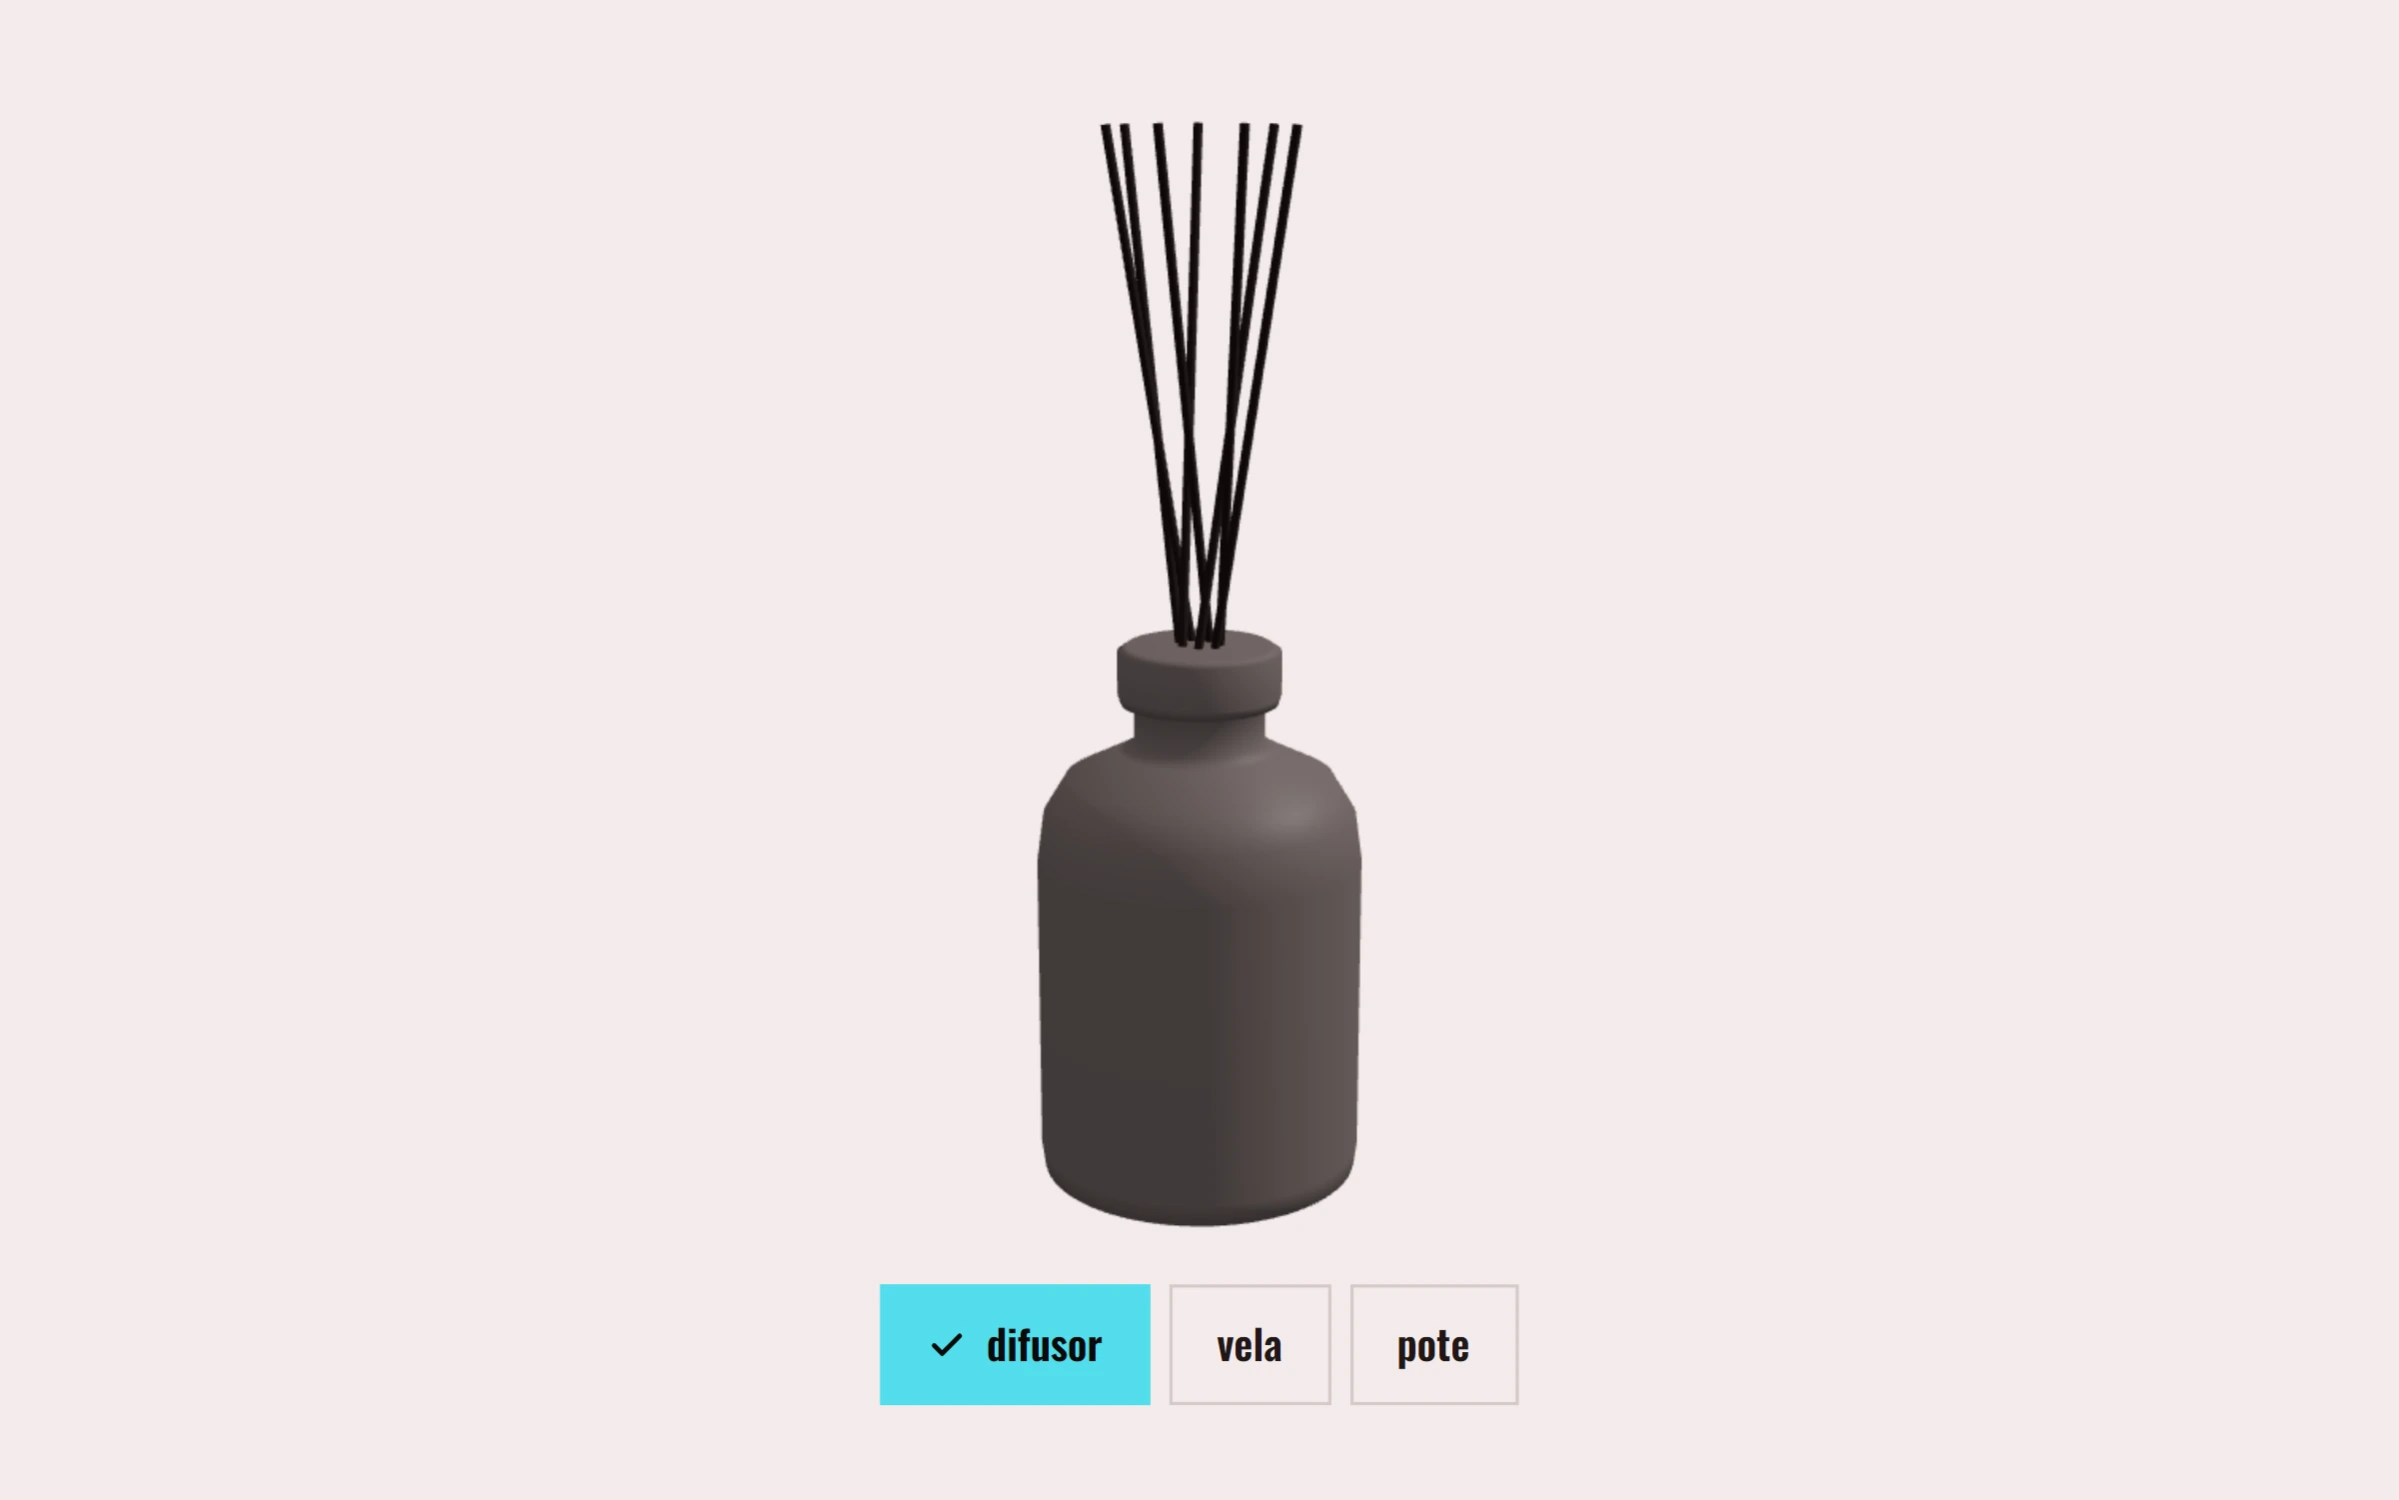
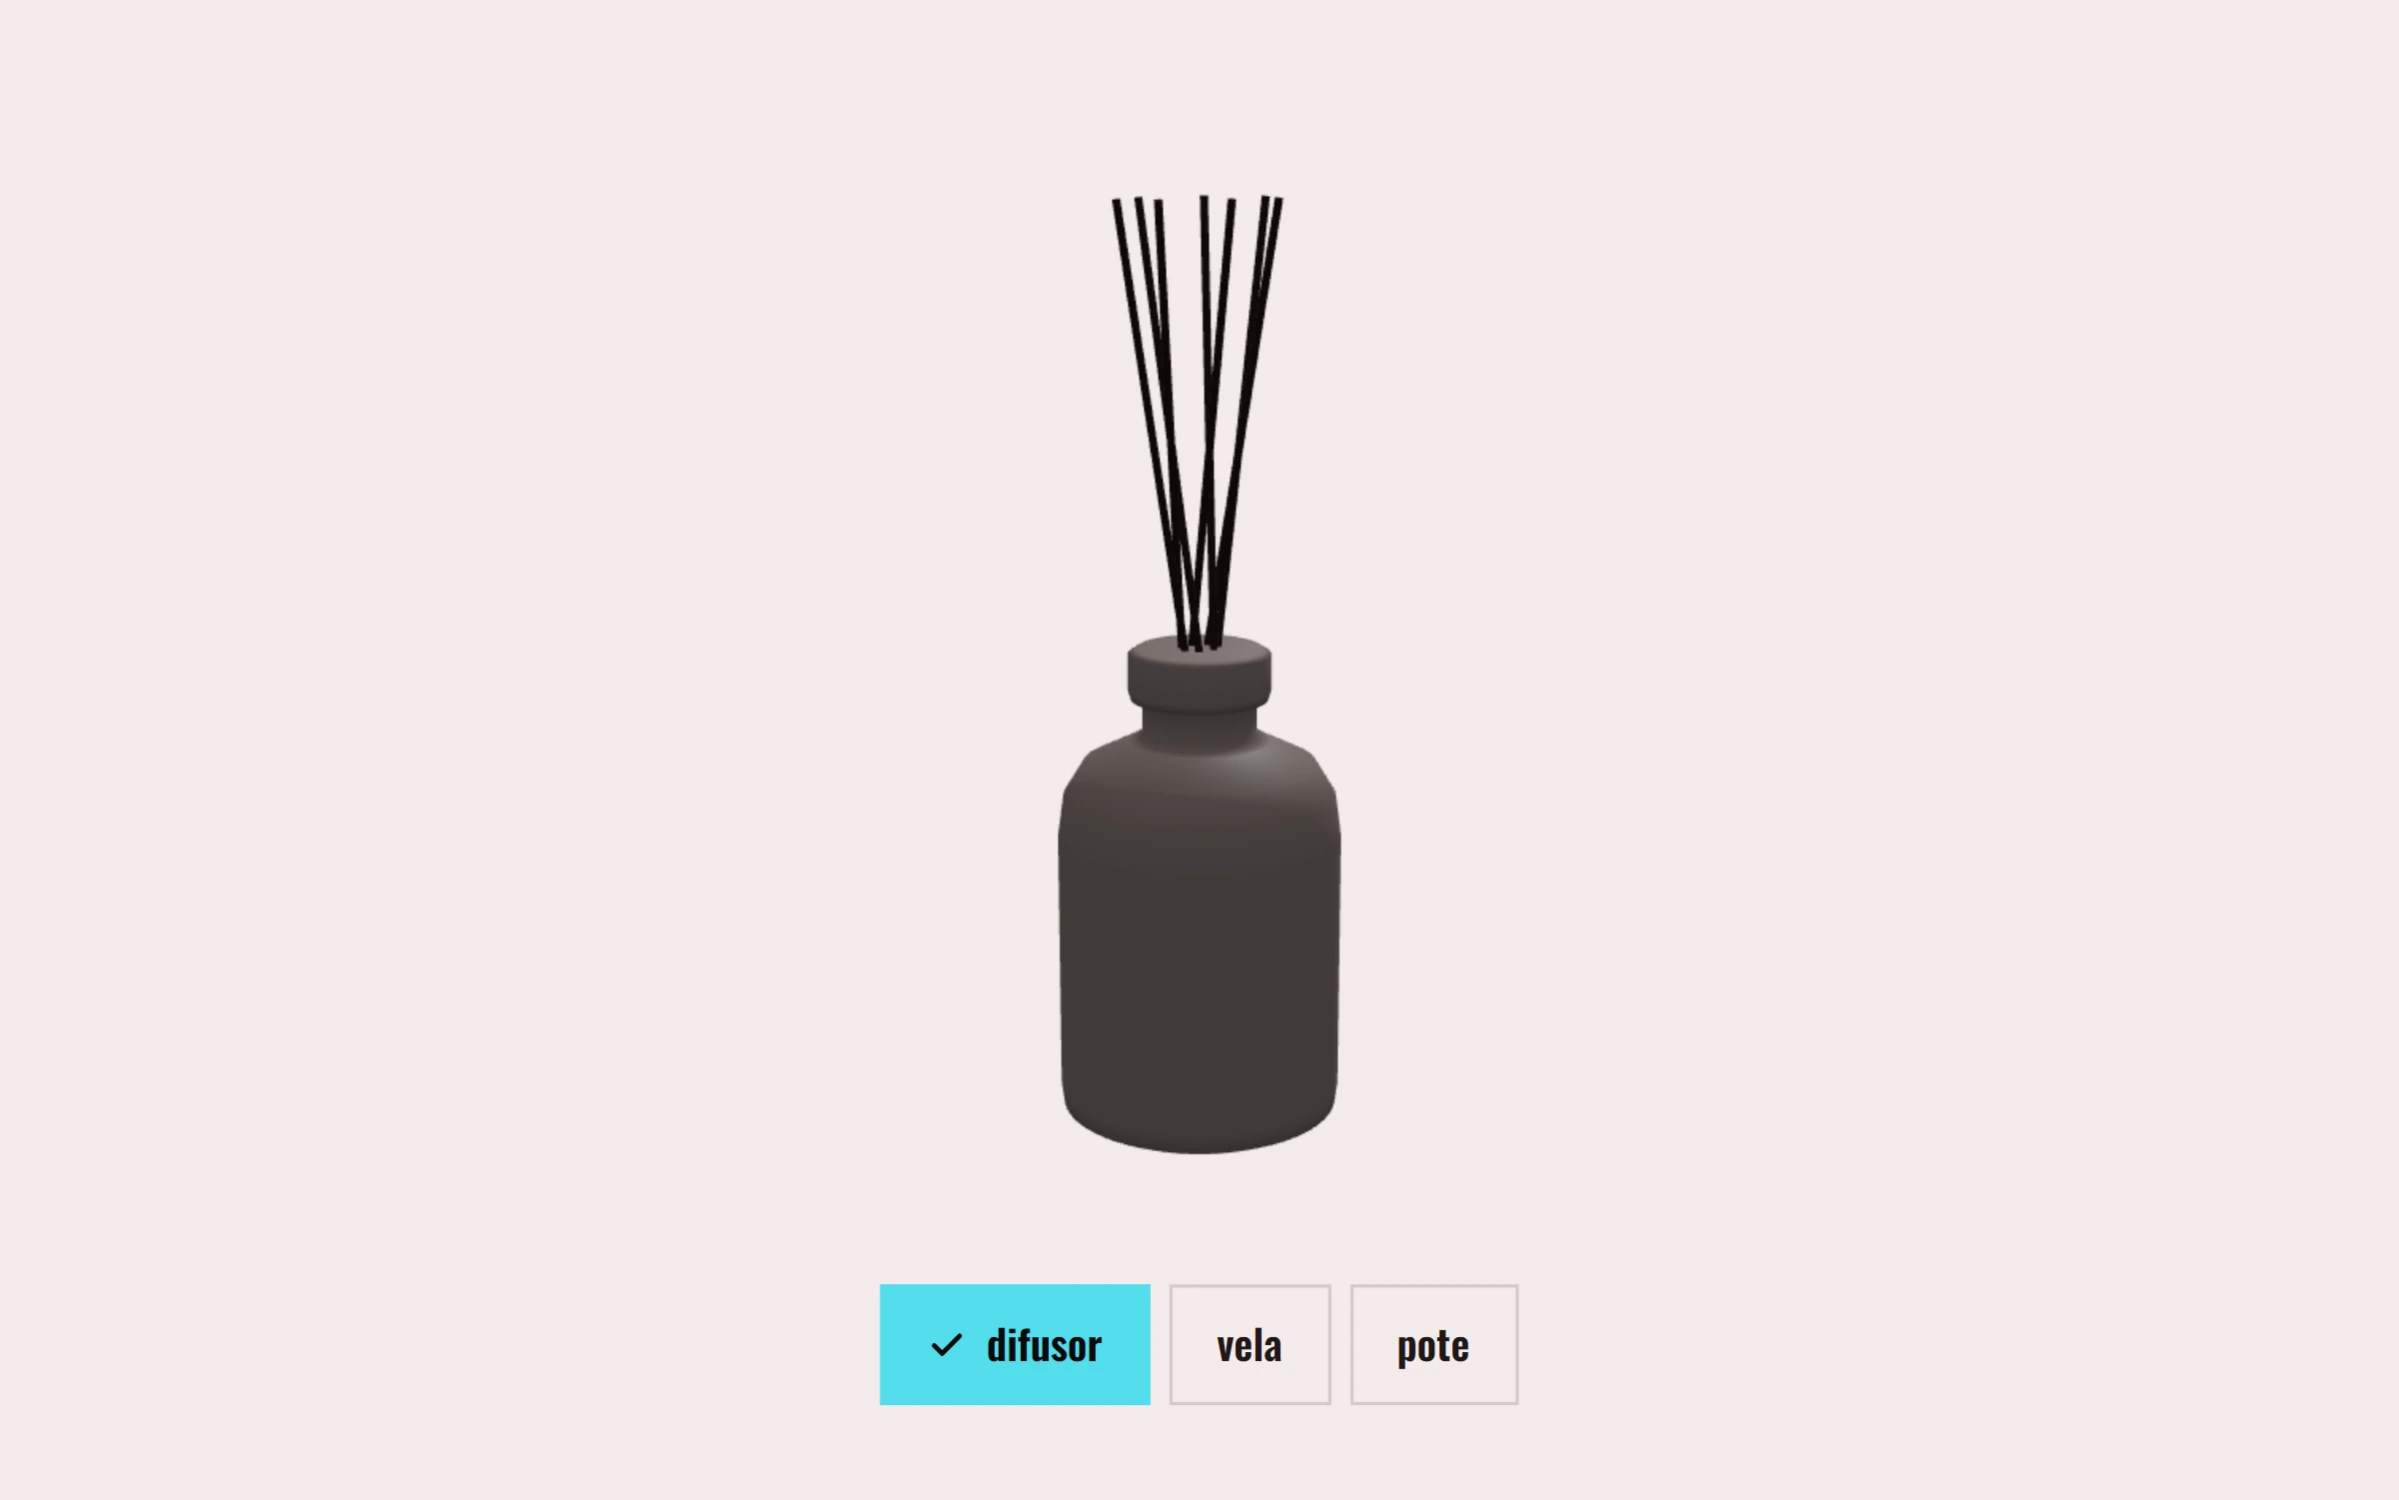
fix(lathe-object): folga de enquadramento para as varetas não saírem cortadas no topo

Changed region(s): [[0.4318, 0.0613, 0.5861, 0.828]]

diff --git a/registry/visant/ui/lathe-object.tsx b/registry/visant/ui/lathe-object.tsx
@@ -188,7 +188,10 @@ async function criarCena(
     // da câmera que o eixo. Levemente de cima, como no original (3.2 / 13.5).
     const meiaVert = Math.tan(THREE.MathUtils.degToRad(camera.fov / 2));
     const raio = Math.max(tamanho.x, tamanho.z) / 2;
-    const dist = Math.max(tamanho.y / 2 / meiaVert, raio / (meiaVert * camera.aspect)) * 1.04 + raio * 0.5;
+    // Folga de 20%, não 4%: a caixa é medida parada, mas a câmera vem de cima, as
+    // varetas balançam e o arrasto inclina até ±0.12π. Com 4% as pontas das
+    // varetas saíam cortadas no topo do canvas (visto em tamanho real na vitrine).
+    const dist = Math.max(tamanho.y / 2 / meiaVert, raio / (meiaVert * camera.aspect)) * 1.2 + raio * 0.5;
     const dir = new THREE.Vector3(0, 0.237, 1).normalize();
     camera.position.copy(dir.multiplyScalar(dist));
     camera.updateProjectionMatrix();
